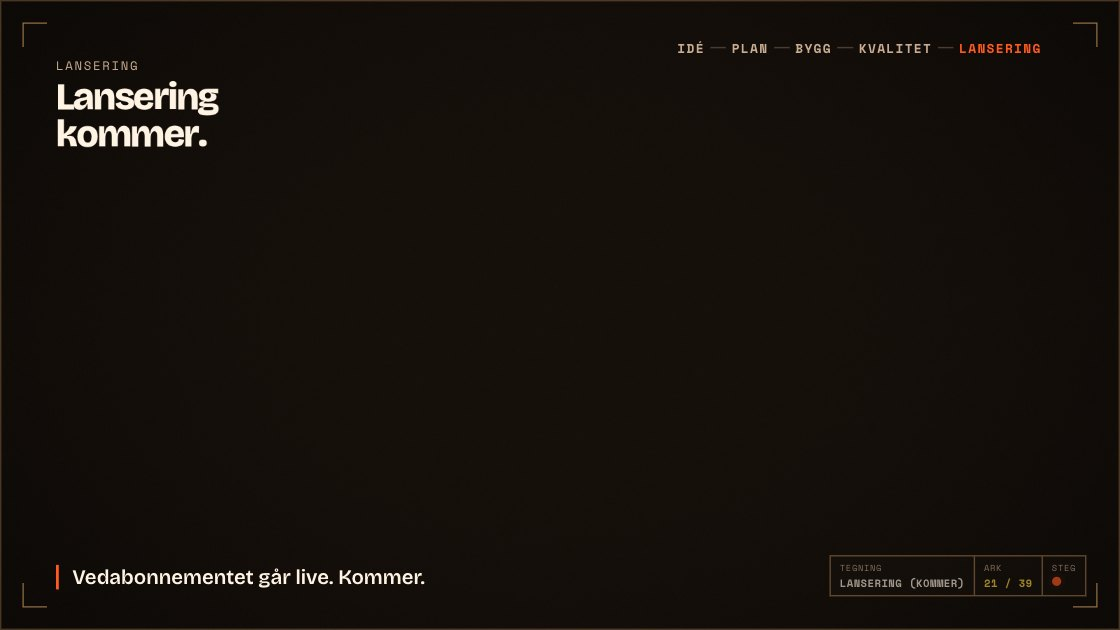
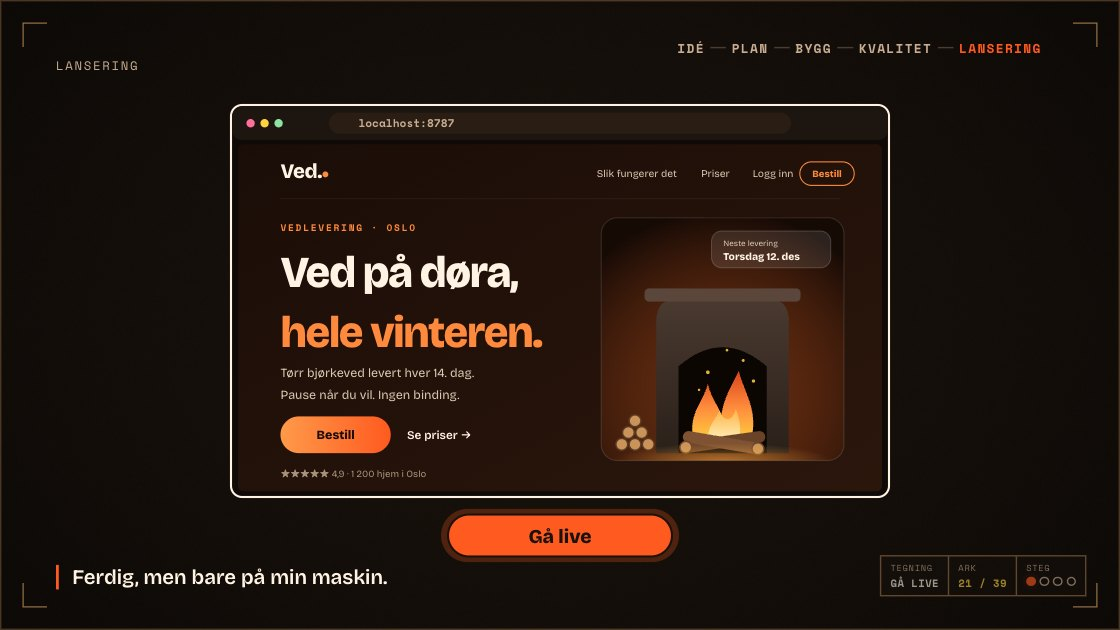
Lansering: go-live slide with the live order map, QR and truck route

diff --git a/src/slides/go-live.js b/src/slides/go-live.js
@@ -1,28 +1,338 @@
 import gsap from 'gsap';
+import QRCode from 'qrcode';
+import * as D from '../engine/draw.js';
+import { FILL } from '../engine/props.js';
+import { varmPeis } from '../engine/varmpeis.js';
 
 /*
-  Placeholder for the Lansering stage: the firewood subscription goes live and finds its first
-  customers. To be built.
+  Lansering, the jaw drop: the firewood shop goes live for real and the room orders from it.
+    0. The finished site on localhost, and a big "Gå live" button.
+    1. Live: the address flips to ved.atladeus.com, the shop opens (for real, through the
+       relay), the window steps aside and a big QR code appears. "Bestill ved."
+    2. The map of Oslo. Every real order from the audience lands as logs on its district and
+       as a card in the feed. A small QR stays in the corner for latecomers.
+    3. "Kjør": the route draws itself through every district with orders and the truck drives
+       it. Phones get "Bilen er på vei", then "Levert" as the truck reaches their district.
+
+  Live data: a websocket to the relay (ved/src/worker.js) as the deck. URL and key come from
+  .env.local (VITE_VED_WS, VITE_VED_KEY, VITE_VED_SITE); without them it stays offline.
+  Only the audience window sends commands; preview iframes and audits only listen.
+  Keys on this slide: R plays a recorded batch of orders (fallback if the network fails),
+  X empties the shop (rehearsal), C closes it again.
+
+  Layout zones (svg units):
+    step 0–1  browser x 330–1270, y 150–710 · button x 640–960, y 735–795
+              (step 1: browser scaled to x 80–550, y 250–530; QR card x 876–1324, y 146–594,
+               "Bestill ved." y 680, address y 728)
+    step 2–3  feed x 80–520, y 236–770 · map x 600–1480, y 200–760 · small QR x 1356–1480, y 590–742
 */
+
+const WS = import.meta.env.VITE_VED_WS || 'wss://ved.atladeus.com';
+const KEY = import.meta.env.VITE_VED_KEY || '';
+const SITE = import.meta.env.VITE_VED_SITE || 'https://ved.atladeus.com';
+const HOST = SITE.replace(/^https?:\/\//, '').replace(/\/$/, '');
+
+// schematic Oslo: district → map position
+const M = {
+  'Vestre Aker': [802, 290], 'Nordre Aker': [970, 262], 'Bjerke': [1152, 327], 'Grorud': [1278, 277],
+  'Stovner': [1404, 240], 'Ullern': [704, 427], 'Frogner': [858, 502], 'St. Hanshaugen': [956, 427],
+  'Sagene': [1040, 352], 'Grünerløkka': [1110, 427], 'Alna': [1292, 440], 'Gamle Oslo': [1110, 527],
+  'Østensjø': [1264, 565], 'Nordstrand': [1124, 640], 'Søndre Nordstrand': [1208, 702],
+};
+const DEPOT = [1360, 500];
+const FEED_X = 80, FEED_Y = 270, FEED_H = 64, FEED_GAP = 10, FEED_MAX = 7;
+
 export default {
   id: 'go-live',
-  title: 'Lansering (kommer)',
-  steps: 1,
-  notes: ['Plassholder: vedabonnementet går live.'],
+  title: 'Gå live',
+  steps: 4,
+  notes: [
+    'Siden er ferdig, men den ligger bare på min maskin.',
+    'Live. Ta frem telefonen og bestill ved.',
+    'Bestillingene kommer inn. Ekte, fra dere. (R spiller av opptak hvis nettet svikter.)',
+    'Bilen kjører. Følg med på telefonen.',
+  ],
 
   create(ctx) {
     const { el, stage, shapes, fx } = ctx;
-    el.innerHTML = `
-      <div class="pin-tl label">Lansering</div>
-      <h2 class="tip" style="position:absolute;left:var(--pad);top:calc(var(--u)*7);font-size:calc(var(--u)*3.4)">Lansering<br><em>kommer</em>.</h2>`;
-    const tip = ctx.$('.tip');
-    return {
-      enter() {
+    el.innerHTML = `<div class="pin-tl label">Lansering</div>`;
+    const svg = D.stage(el);
+    const control = new URLSearchParams(location.search).get('view') !== 'preview';
+    let P = {};
+    let step = -1;
+    const orders = [];            // every order seen, live or recorded
+    const drawn = new Set();      // order ids already on the map
+
+    // ---- the relay ----
+    let ws = null, wsTimer = null, live = false, closed = false;
+    const send = (m) => { if (control && !ctx.deck?.instant && ws?.readyState === 1) ws.send(JSON.stringify(m)); };
+    function connect() {
+      if (!KEY || closed) return;
+      try { ws = new WebSocket(`${WS}/api/ws?role=deck&key=${encodeURIComponent(KEY)}`); } catch { return; }
+      ws.onopen = () => { live = true; status(); };
+      ws.onmessage = (e) => {
+        const m = JSON.parse(e.data);
+        if (m.type === 'snapshot') { orders.length = 0; drawn.clear(); m.orders.forEach((o) => orders.push(o)); if (step >= 2) redrawOrders(); }
+        if (m.type === 'order') add(m.order);
+      };
+      ws.onclose = () => { live = false; status(); clearTimeout(wsTimer); if (!closed) wsTimer = setTimeout(connect, 2000); };
+    }
+    connect();
+
+    // the fallback: a recorded evening of orders
+    function replay() {
+      const names = Object.keys(M);
+      const pick = ['Grünerløkka', 'Frogner', 'Sagene', 'St. Hanshaugen', 'Gamle Oslo', 'Nordre Aker', 'Ullern', 'Grünerløkka', 'Østensjø', 'Frogner', 'Nordstrand', 'Bjerke', 'Vestre Aker', 'Grünerløkka', 'Alna', 'Sagene', 'Grorud', 'Frogner'];
+      pick.forEach((b, k) => setTimeout(() => add({ id: `demo-${Date.now()}-${k}`, bydel: names.includes(b) ? b : 'Frogner', sekker: 1 + (k * 7) % 3, t: Date.now(), demo: true }), 300 + k * 420 + (k % 3) * 130));
+    }
+    const onKey = (e) => {
+      if (e.metaKey || e.ctrlKey || e.altKey || !control) return;
+      if (e.key === 'r' || e.key === 'R') replay();
+      if (e.key === 'x' || e.key === 'X') { if (ws?.readyState === 1) ws.send(JSON.stringify({ type: 'reset' })); orders.length = 0; drawn.clear(); if (step >= 2) redrawOrders(); }
+      if (e.key === 'c' || e.key === 'C') { if (ws?.readyState === 1) ws.send(JSON.stringify({ type: 'close' })); }
+    };
+    window.addEventListener('keydown', onKey);
+
+    function add(o) {
+      if (orders.some((x) => x.id === o.id)) return;
+      orders.push(o);
+      if (step >= 2) { stackOrder(o, true); feed(o, true); }
+    }
+
+    const reset = () => { svg.innerHTML = ''; P = {}; drawn.clear(); };
+
+    // ---- step 0–1: the browser and the button ----
+    function browser() {
+      const g = D.g(svg, { 'data-unit': '' });
+      D.el('rect', { x: 330, y: 150, width: 940, height: 560, rx: 16, style: 'fill: #0f0a07; stroke: var(--fg)', 'stroke-width': 3 }, g);
+      D.el('rect', { x: 332, y: 152, width: 936, height: 48, rx: 14, style: 'fill: #1d1510' }, g);
+      [0, 1, 2].forEach((k) => D.el('circle', { cx: 358 + k * 20, cy: 176, r: 6, style: `fill: ${['#ff6f9c', '#ffd23f', '#8fe3a2'][k]}` }, g));
+      D.el('rect', { x: 470, y: 161, width: 660, height: 30, rx: 15, style: 'fill: #2a1d14' }, g);
+      const lock = D.g(g, { opacity: 0 });
+      D.el('rect', { x: 490, y: 175, width: 12, height: 10, rx: 2, style: 'fill: #8fe3a2' }, lock);
+      D.p(lock, 'M492.5 175 v-3 a3.5 3.5 0 0 1 7 0 v3', '', { style: 'fill: none; stroke: #8fe3a2', 'stroke-width': 2 });
+      const addr = D.text(g, 512, 182, 'localhost:8787', 'ad', { style: 'font: 700 16px var(--font-mono); fill: var(--muted)' });
+      const page = D.g(g, { 'data-bg': '' });
+      varmPeis(page, 340, 206, 920, 496, { bar: true });
+      return { g, addr, lock };
+    }
+    function goButton() {
+      const g = D.g(svg, { 'data-unit': '' });
+      const glow = D.el('rect', { x: 630, y: 727, width: 340, height: 76, rx: 38, style: 'fill: #ff5a1f', opacity: 0.25 }, g);
+      D.el('rect', { x: 640, y: 735, width: 320, height: 60, rx: 30, ...FILL('#ff5a1f', 3) }, g);
+      D.text(g, 800, 775, 'Gå live', 'gl', { 'text-anchor': 'middle', style: 'font: 800 28px var(--font-display); fill: #1a120c' });
+      return { g, glow };
+    }
+    // the QR code as one crisp path
+    function qr(parent, x, y, size, pad) {
+      const g = D.g(parent);
+      D.el('rect', { x, y, width: size, height: size, rx: Math.max(8, size * 0.05), style: 'fill: #fff3e3' }, g);
+      const code = QRCode.create(SITE, { errorCorrectionLevel: 'M' }).modules;
+      const n = code.size, m = (size - pad * 2) / n;
+      let d = '';
+      for (let r = 0; r < n; r++) for (let c = 0; c < n; c++) {
+        if (code.data[r * n + c]) d += `M${(x + pad + c * m).toFixed(2)} ${(y + pad + r * m).toFixed(2)}h${m.toFixed(2)}v${m.toFixed(2)}h-${m.toFixed(2)}z`;
+      }
+      D.p(g, d, '', { style: 'fill: #1a120c; stroke: none', 'shape-rendering': 'crispEdges' });
+      return g;
+    }
+
+    // ---- step 2–3: the map, the stacks, the feed ----
+    function map() {
+      const g = D.g(svg);
+      const bg = D.g(g, { 'data-bg': '' });
+      // the fjord in the south-west
+      D.p(bg, 'M600 606 C650 590 700 602 752 592 C812 580 872 598 926 636 C968 666 992 706 1006 760 L600 760 Z', '', { style: 'fill: #12262e; stroke: #2c4a55', 'stroke-width': 2.5 });
+      D.text(bg, 660, 712, 'OSLOFJORDEN', 'fj', { style: 'font: 700 13px var(--font-mono); letter-spacing: .3em; fill: #3f6a78' });
+      // faint roads between neighbours
+      const links = [['Vestre Aker', 'Nordre Aker'], ['Nordre Aker', 'Bjerke'], ['Bjerke', 'Grorud'], ['Grorud', 'Stovner'], ['Vestre Aker', 'Ullern'], ['Ullern', 'Frogner'],
+        ['Frogner', 'St. Hanshaugen'], ['St. Hanshaugen', 'Sagene'], ['Sagene', 'Nordre Aker'], ['Sagene', 'Grünerløkka'], ['Grünerløkka', 'Bjerke'], ['Grünerløkka', 'Gamle Oslo'],
+        ['Gamle Oslo', 'Østensjø'], ['Østensjø', 'Alna'], ['Alna', 'Grorud'], ['Gamle Oslo', 'Nordstrand'], ['Nordstrand', 'Søndre Nordstrand'], ['Østensjø', 'Søndre Nordstrand'], ['St. Hanshaugen', 'Gamle Oslo'], ['Alna', 'Bjerke']];
+      D.p(bg, links.map(([a, b]) => `M${M[a][0]} ${M[a][1]} L${M[b][0]} ${M[b][1]}`).join(' '), '', { style: 'fill: none; stroke: #3a2c22', 'stroke-width': 3, 'stroke-linecap': 'round' });
+      // the depot
+      D.el('rect', { x: DEPOT[0] - 22, y: DEPOT[1] - 14, width: 44, height: 28, rx: 4, ...FILL('#4a3020', 2.5) }, bg);
+      D.text(g, DEPOT[0], DEPOT[1] + 40, 'LAGER', 'dp', { 'text-anchor': 'middle', style: 'font: 700 12px var(--font-mono); letter-spacing: .14em; fill: var(--muted)', 'data-unit': '' });
+      const dots = {};
+      for (const [name, [x, y]] of Object.entries(M)) {
+        const d = D.g(g, { 'data-bg': '' });
+        D.el('circle', { cx: x, cy: y, r: 7, style: 'fill: #2a1d14; stroke: #8a7666', 'stroke-width': 2.5 }, d);
+        D.text(g, x, y + 28, name, 'dn', { 'text-anchor': 'middle', style: 'font: 600 14px var(--font-display); fill: #b8a48e', 'data-unit': '' });
+        dots[name] = { d, stack: D.g(g, { 'data-bg': '' }), n: 0 };
+      }
+      return { g, dots };
+    }
+    // a log on a district's stack: a small pyramid that grows; past ten it glows instead
+    const SLOTS = [[0, 0], [-14, 0], [14, 0], [-28, 0], [28, 0], [-7, -12], [7, -12], [-21, -12], [21, -12], [0, -24]];
+    function stackOrder(o, animate) {
+      if (!P.map || drawn.has(o.id)) return;
+      drawn.add(o.id);
+      const s = P.map.dots[o.bydel];
+      if (!s) return;
+      const [x, y] = M[o.bydel];
+      for (let k = 0; k < o.sekker; k++) {
+        const i = s.n++;
+        if (i >= SLOTS.length) { gsap.to(s.d, { scale: 1.25, transformOrigin: '50% 50%', duration: 0.15, yoyo: true, repeat: 1 }); continue; }
+        const [dx, dy] = SLOTS[i];
+        const l = D.g(s.stack);
+        D.el('circle', { cx: x + dx, cy: y - 18 + dy, r: 7, ...FILL('#c9935a', 2) }, l);
+        if (animate) gsap.fromTo(l, { opacity: 0, y: -30 }, { opacity: 1, y: 0, duration: 0.45, delay: k * 0.08, ease: 'bounce.out' });
+      }
+      s.d.querySelector('circle').setAttribute('style', 'fill: #ff7a2f; stroke: #ffd36b');
+    }
+    function feed(o, animate) {
+      if (!P.feed) return;
+      const g = D.g(P.feed, { 'data-unit': '' });
+      D.el('rect', { x: FEED_X, y: FEED_Y, width: 440, height: FEED_H, rx: 14, style: `fill: #1d1510; stroke: ${o.demo ? 'var(--deco)' : '#ff7a2f'}`, 'stroke-width': 2 }, g);
+      [[FEED_X + 26, FEED_Y + 40], [FEED_X + 42, FEED_Y + 40], [FEED_X + 34, FEED_Y + 26]].forEach(([cx, cy]) => D.el('circle', { cx, cy, r: 7, ...FILL('#c9935a', 1.8) }, g));
+      D.text(g, FEED_X + 66, FEED_Y + 28, 'Ny bestilling', 'fb', { style: 'font: 700 17px var(--font-display); fill: var(--fg)' });
+      D.text(g, FEED_X + 66, FEED_Y + 50, `${o.bydel} · ${o.sekker} ${o.sekker === 1 ? 'sekk' : 'sekker'}`, 'fd', { style: 'font: 600 15px var(--font-display); fill: #b8a48e' });
+      const t = new Date(o.t || Date.now());
+      D.text(g, FEED_X + 420, FEED_Y + 28, `${String(t.getHours()).padStart(2, '0')}:${String(t.getMinutes()).padStart(2, '0')}`, 'ft', { 'text-anchor': 'end', style: 'font: 700 13px var(--font-mono); fill: var(--muted)' });
+      P.cards.unshift(g);
+      // older cards step down; the oldest leaves
+      P.cards.forEach((c, k) => {
+        const y = k * (FEED_H + FEED_GAP);
+        if (k >= FEED_MAX) { gsap.to(c, { opacity: 0, duration: 0.3, onComplete: () => c.remove() }); return; }
+        if (k === 0) { if (animate) gsap.fromTo(c, { opacity: 0, x: -20 }, { opacity: 1, x: 0, duration: 0.4 }); }
+        else animate ? gsap.to(c, { y, duration: 0.35, ease: 'power2.out' }) : gsap.set(c, { y });
+      });
+      P.cards = P.cards.slice(0, FEED_MAX);
+    }
+    function redrawOrders() {
+      if (!P.map) return;
+      Object.values(P.map.dots).forEach((s) => { s.stack.innerHTML = ''; s.n = 0; s.d.querySelector('circle').setAttribute('style', 'fill: #2a1d14; stroke: #8a7666'); });
+      P.feed.innerHTML = ''; P.cards = [];
+      drawn.clear();
+      orders.forEach((o) => { stackOrder(o, false); });
+      orders.slice(-FEED_MAX).forEach((o) => feed(o, false));
+    }
+    function status() {
+      if (!P.status) return;
+      P.status.textContent = live ? 'BESTILLINGER · LIVE' : 'BESTILLINGER';
+      P.statusDot.setAttribute('style', `fill: ${live ? '#8fe3a2' : '#6b5a48'}`);
+    }
+
+    // a small truck for the map, front at (0, 0)
+    function truck() {
+      const o = D.g(svg, { 'data-unit': '' });
+      const t = D.g(o);
+      D.el('rect', { x: -58, y: -20, width: 40, height: 10, rx: 2, ...FILL('#6b4a30', 2) }, t);
+      [[-50, -26], [-38, -26], [-26, -26], [-44, -34], [-32, -34]].forEach(([cx, cy]) => D.el('circle', { cx, cy, r: 6, ...FILL('#c9935a', 1.8) }, t));
+      D.p(t, 'M-18 -10 V-30 H-6 L2 -20 V-10 Z', '', FILL('#ff5a1f', 2));
+      [[-48, -8], [-8, -8]].forEach(([cx, cy]) => D.el('circle', { cx, cy, r: 6, ...FILL('#2a1d14', 2) }, t));
+      return { o, t };
+    }
+    // nearest-neighbour route from the depot through every district with orders
+    function route() {
+      const left = [...new Set(orders.map((o) => o.bydel))].filter((b) => M[b]);
+      const pts = [DEPOT];
+      let cur = DEPOT;
+      while (left.length) {
+        left.sort((a, b) => Math.hypot(M[a][0] - cur[0], M[a][1] - cur[1]) - Math.hypot(M[b][0] - cur[0], M[b][1] - cur[1]));
+        const b = left.shift();
+        cur = M[b];
+        pts.push(cur);
+        pts[pts.length - 1].bydel = b;
+      }
+      return pts.map((p, k) => ({ x: p[0], y: p[1], bydel: k ? p.bydel : null }));
+    }
+
+    const play = (i, instant) => {
+      const tl = gsap.timeline();
+      step = i;
+      if (i === 0) {
         stage.particles.morphTo(shapes.scatter(stage), { duration: 2, turbulence: 0.3 });
         stage.fly({ pos: [0, 0, 14], look: [0, 0, 0], duration: 2 });
-        ctx.track(fx.rise(tip, { stagger: 0.015 }));
+        P.win = browser();
+        P.btn = goButton();
+        tl.fromTo(P.win.g, { opacity: 0, y: 20 }, { opacity: 1, y: 0, duration: 0.6 }, 0.2);
+        tl.fromTo(P.btn.g, { opacity: 0 }, { opacity: 1, duration: 0.4 }, 0.8);
+        tl.to(P.btn.glow, { opacity: 0.6, duration: 0.8, yoyo: true, repeat: 5 }, 1.2);
+      }
+
+      if (i === 1) {
+        // the press: a flash, the particles burst, the address becomes real
+        tl.to(P.btn.g, { scale: 0.94, transformOrigin: '50% 50%', duration: 0.1, yoyo: true, repeat: 1 }, 0);
+        const flash = D.el('rect', { x: 0, y: 0, width: 1600, height: 900, style: 'fill: #ffb347', opacity: 0, 'data-bg': '' }, svg);
+        tl.to(flash, { opacity: 0.55, duration: 0.12 }, 0.15).to(flash, { opacity: 0, duration: 0.9, ease: 'power2.out' }, 0.27);
+        tl.call(() => {
+          if (instant) return;
+          stage.particles.morphTo(shapes.ring(stage, { r: 7.5, tube: 0.6 }), { duration: 0.9, turbulence: 1.2 });
+          setTimeout(() => stage.particles.morphTo(shapes.scatter(stage), { duration: 2.4, turbulence: 0.6 }), 1100);
+        }, null, 0.15);
+        tl.to(P.btn.g, { opacity: 0, duration: 0.3 }, 0.4);
+        tl.to(P.win.addr, { opacity: 0, duration: 0.15 }, 0.5);
+        tl.call(() => { P.win.addr.textContent = HOST; P.win.addr.setAttribute('style', 'font: 700 16px var(--font-mono); fill: var(--fg)'); }, null, 0.65);
+        tl.to(P.win.addr, { opacity: 1, duration: 0.2 }, 0.66);
+        tl.to(P.win.lock, { opacity: 1, duration: 0.2 }, 0.66);
+        tl.call(() => !instant && send({ type: 'open' }), null, 0.66);
+        // the window steps aside; the QR code arrives
+        tl.to(P.win.g, { scale: 0.5, x: -250, y: 100, svgOrigin: '330 150', duration: 0.8, ease: 'power3.inOut' }, 1.5);
+        P.qr = D.g(svg, { 'data-unit': '' });
+        qr(P.qr, 876, 146, 448, 30);
+        D.text(P.qr, 1100, 680, 'Bestill ved.', 'qb', { 'text-anchor': 'middle', style: 'font: 800 60px var(--font-display); fill: var(--fg)' });
+        D.text(P.qr, 1100, 728, HOST, 'qa', { 'text-anchor': 'middle', style: 'font: 700 24px var(--font-mono); fill: var(--accent)' });
+        tl.fromTo(P.qr, { opacity: 0, scale: 0.85, transformOrigin: '50% 40%' }, { opacity: 1, scale: 1, duration: 0.6, ease: 'back.out(1.6)' }, 2.2);
+      }
+
+      if (i === 2) {
+        // the map: real orders land on it
+        tl.to([P.win.g, P.qr], { opacity: 0, duration: 0.4 }, 0);
+        P.map = map();
+        P.feed = D.g(svg);
+        P.cards = [];
+        const head = D.g(svg, { 'data-unit': '' });
+        P.statusDot = D.el('circle', { cx: FEED_X + 6, cy: 244, r: 6, style: 'fill: #6b5a48' }, head);
+        P.status = D.text(head, FEED_X + 22, 250, 'BESTILLINGER', 'st', { style: 'font: 700 15px var(--font-mono); letter-spacing: .16em; fill: var(--muted)' });
+        status();
+        P.small = D.g(svg, { 'data-unit': '' });
+        qr(P.small, 1356, 590, 124, 10);
+        D.text(P.small, 1418, 738, HOST, 'sq', { 'text-anchor': 'middle', style: 'font: 700 12px var(--font-mono); fill: var(--muted)' });
+        tl.fromTo([P.map.g, head, P.small, P.feed], { opacity: 0 }, { opacity: 1, duration: 0.6 }, 0.4);
+        tl.call(() => redrawOrders(), null, 0.4);
+      }
+
+      if (i === 3) {
+        // drive: the route through every district with orders
+        const pts = route();
+        const byDistrict = (b) => orders.filter((o) => o.bydel === b && !o.demo).map((o) => o.id);
+        tl.call(() => !instant && send({ type: 'notify', ids: orders.filter((o) => !o.demo).map((o) => o.id), title: 'Ved.', text: 'Bilen er på vei.' }), null, 0.1);
+        if (pts.length > 1) {
+          const d = pts.map((p, k) => `${k ? 'L' : 'M'}${p.x} ${p.y}`).join(' ');
+          const path = D.p(svg, d, '', { style: 'fill: none; stroke: #ff7a2f', 'stroke-width': 4, 'stroke-linecap': 'round', 'stroke-linejoin': 'round', 'stroke-dasharray': '2 10', 'data-bg': '' });
+          const len = path.getTotalLength ? path.getTotalLength() : 1000;
+          tl.fromTo(path, { opacity: 0 }, { opacity: 0.9, duration: 0.4 }, 0.2);
+          const tr = truck();
+          gsap.set(tr.o, { x: DEPOT[0], y: DEPOT[1] - 4 });
+          tl.fromTo(tr.o, { opacity: 0 }, { opacity: 1, duration: 0.3 }, 0.3);
+          const speed = Math.max(260, len / 14);
+          let at = 0.7;
+          for (let k = 1; k < pts.length; k++) {
+            const a = pts[k - 1], b = pts[k];
+            const dur = Math.hypot(b.x - a.x, b.y - a.y) / speed;
+            tl.set(tr.t, { scaleX: b.x < a.x ? -1 : 1, transformOrigin: '-28px -16px' }, at);
+            tl.to(tr.o, { x: b.x, y: b.y - 4, duration: dur, ease: 'none' }, at);
+            at += dur;
+            const s = P.map.dots[b.bydel];
+            tl.to(s.stack, { opacity: 0.35, duration: 0.3 }, at);
+            tl.fromTo(s.d, { scale: 1 }, { scale: 1.6, transformOrigin: '50% 50%', duration: 0.15, yoyo: true, repeat: 1, immediateRender: false }, at);
+            tl.call(() => !instant && send({ type: 'notify', ids: byDistrict(b.bydel), title: 'Ved.', text: 'Levert. Veden står ved døra.' }), null, at);
+            at += 0.35;
+          }
+        }
+      }
+      return tl;
+    };
+
+    const st = D.stepper(ctx, { reset, play });
+    return {
+      ...st,
+      dispose() {
+        closed = true;
+        clearTimeout(wsTimer);
+        window.removeEventListener('keydown', onKey);
+        try { ws?.close(); } catch {}
       },
-      step() {},
     };
   },
 };

diff --git a/src/slides/help.js b/src/slides/help.js
@@ -161,7 +161,12 @@ export const HELP = {
     'Kan du levere, og lønner det seg hele året?',
     'AI gjør hele verdikjeden billig. Derfor blir det trangt.',
   ],
-  'go-live': ['Vedabonnementet går live. Kommer.'],
+  'go-live': [
+    'Ferdig, men bare på min maskin.',
+    'Live. Ta frem telefonen.',
+    'Bestillingene deres, mens vi ser på.',
+    'Bilen kjører. Følg med på telefonen.',
+  ],
   launch: [
     'Ferdig er ikke solgt. Butikksiden må lages.',
     'Teksten skrives fra det som faktisk er i pakken.',

diff --git a/docs/content.md b/docs/content.md
@@ -264,7 +264,7 @@ Title: "Fra idé til startup, med AI".
 2. Plan: living spec → full scope → batched planning → instruction files
 3. Bygg: ready to build (src/slides/ready-to-build.js: a checklist, all ticked: Hva vi skal lage, Hvem er kundene?, Kjernefunksjon, Levende kravspec, Instruksjonsarkitektur; stamped GODKJENT FOR BYGGING, then "Start.") → prototypes → visual references → describe the goal → commit after every step
 4. Kvalitet: self-check → show, don't describe → where it fails
-5. Lansering [agreed concept, not built; placeholder src/slides/go-live.js]: the jaw drop. The firewood business becomes real and the audience are its first customers. "Gå live" button: the frame falls away, the address bar flips from localhost to a real domain. A big QR code, "Bestill ved." The audience order on the real deployed Varm peis site (pick a district, optional first name; no payment, no personal data). On the TV a map of Oslo fills with log stacks per district as orders arrive, the route draws itself and the truck from Idé drives it. Each phone gets "Veden kommer i morgen" as an on-page/push message (the Kvalitet bug, working). Needs: deployed site, a small realtime relay (serverless + SSE/websocket), a map scene; fallback key replays a recorded batch if the network fails. This is also where the audience phone participation goes.
+5. Lansering [built locally, not deployed: src/slides/go-live.js + ved/ (Cloudflare Worker); keys on the slide: R recorded orders, X empty the shop, C close it]: the jaw drop. The firewood business becomes real and the audience are its first customers. "Gå live" button: the frame falls away, the address bar flips from localhost to a real domain. A big QR code, "Bestill ved." The audience order on the real deployed Varm peis site (pick a district, optional first name; no payment, no personal data). On the TV a map of Oslo fills with log stacks per district as orders arrive, the route draws itself and the truck from Idé drives it. Each phone gets "Veden kommer i morgen" as an on-page/push message (the Kvalitet bug, working). Needs: deployed site, a small realtime relay (serverless + SSE/websocket), a map scene; fallback key replays a recorded batch if the network fails. This is also where the audience phone participation goes.
 Part 2, Arbeidsflyt (divider "Del 2"): parallel sessions → helpers → watchdog → remote and cloud sessions → model and effort → follow the gateway team
 Part 3, Bak kulissene (divider "Del 3"): side quest → Claude ↔ ChatGPT loop (Fab) → the same trick in the game (references → Unreal) → I know a guy → always working
 Part 4, Ekte prosjekter (divider "Del 4"): live projects (src/slides/projects.js) → launch and sell (src/slides/launch.js: AI wrote the Fab listing, made the images, set the price from comparable packs, packaged docs and FBX/GLB/Blender; published; it sells) → this deck is a web page (finale)
